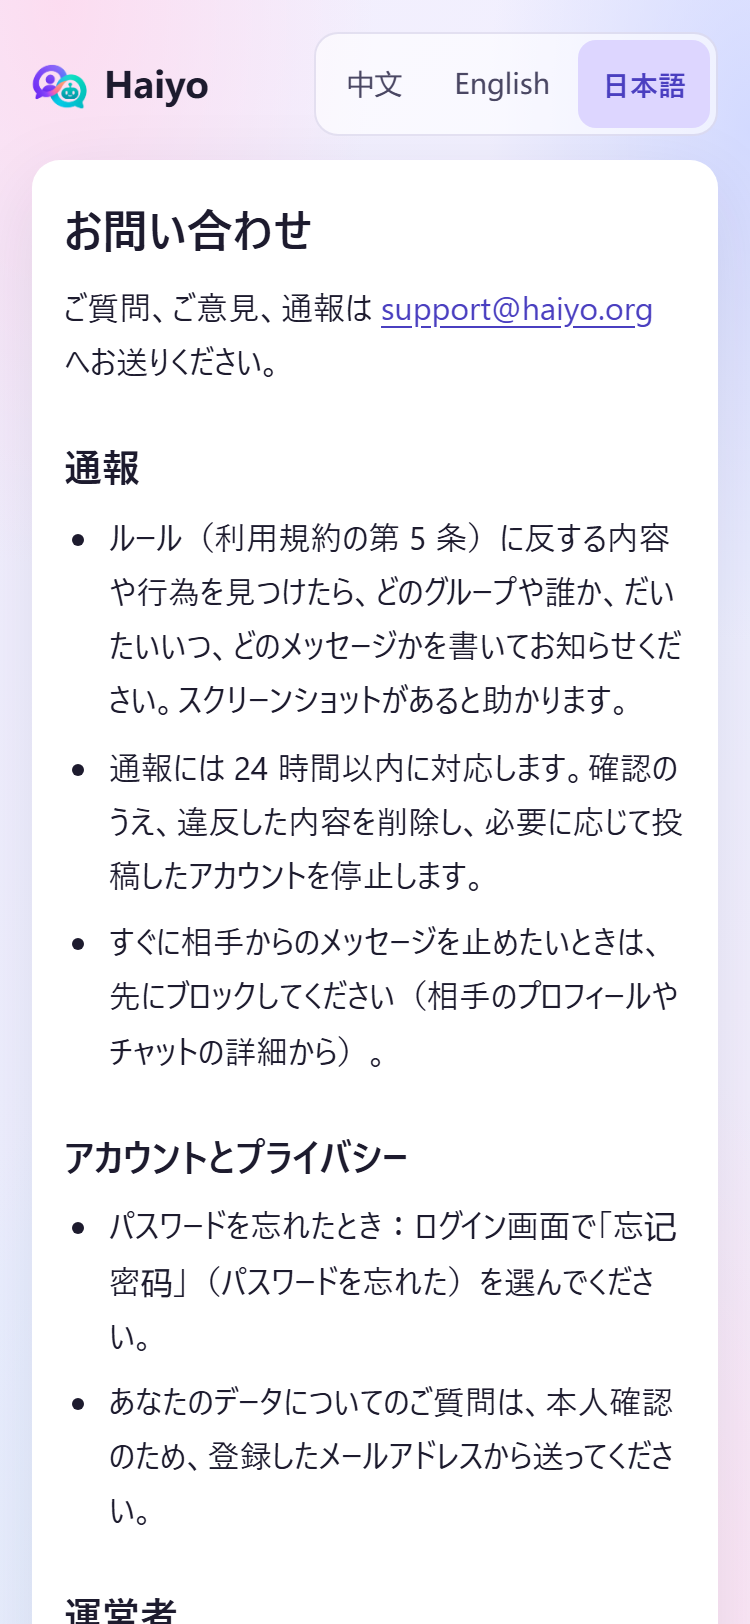
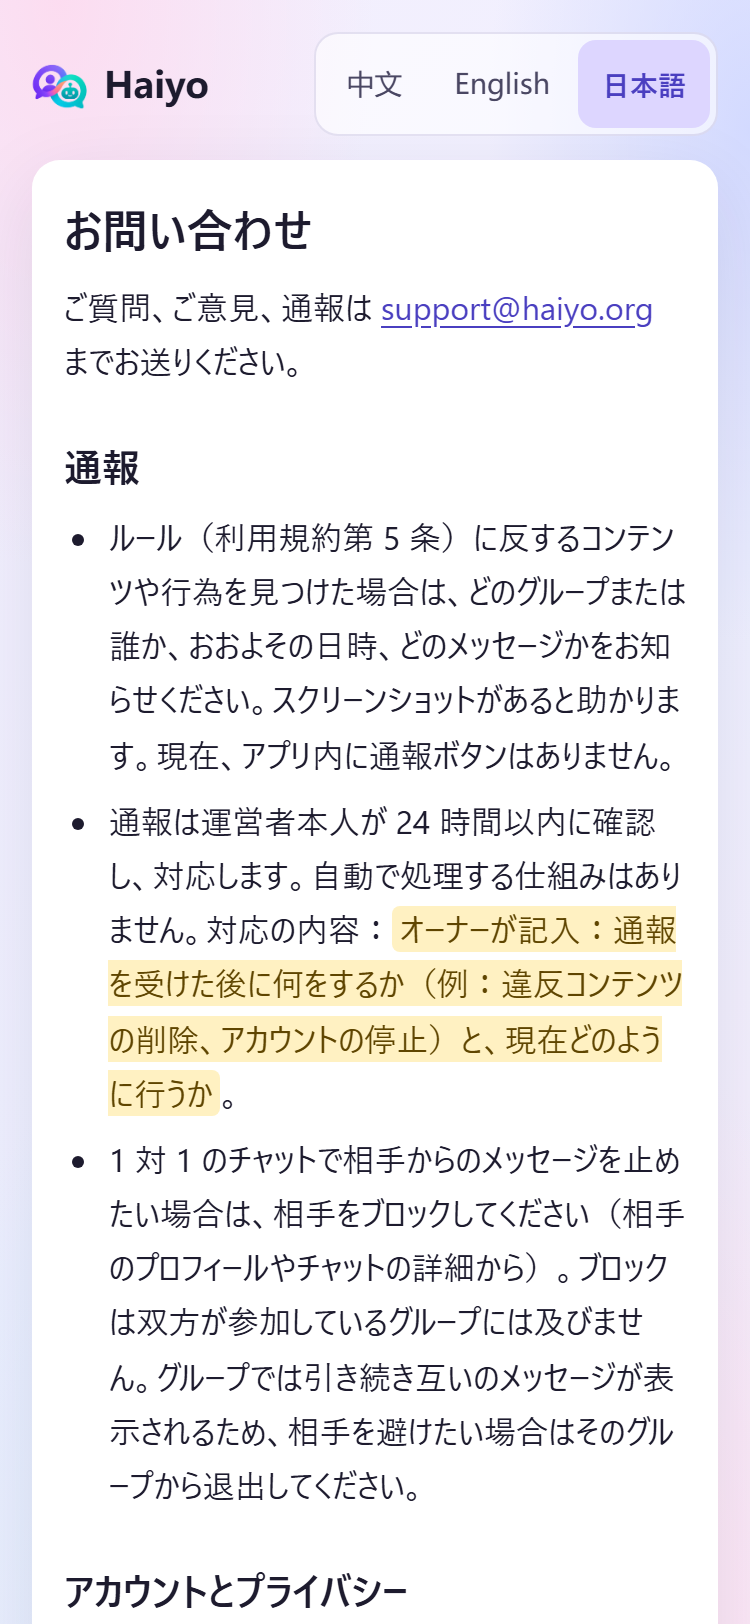
legal test waits for the page title; screenshots retaken with the revised texts

diff --git a/app/web/tests/legal.test.jsx b/app/web/tests/legal.test.jsx
@@ -6,7 +6,7 @@ import React from "react";
 import { readFileSync, readdirSync } from "node:fs";
 import path from "node:path";
 import { afterEach, beforeAll, beforeEach, describe, expect, it, vi } from "vitest";
-import { act, cleanup, configure, fireEvent, render, screen, within } from "@testing-library/react";
+import { act, cleanup, configure, fireEvent, render, screen, waitFor, within } from "@testing-library/react";
 import { ApiError } from "../src/api/http.js";
 import { AuthRoot } from "../src/auth/AuthRoot.jsx";
 import { LEGAL_VERSIONS } from "../src/legal/versions.js";
@@ -151,7 +151,7 @@ describe("the public pages", () => {
     expect(screen.getAllByRole("heading", { level: 1 })).toHaveLength(1);
     expect(screen.queryByTestId("app")).toBeNull();
     expect(location.pathname).toBe(`/${doc}`);
-    expect(document.title).toBe(`${TITLES[doc].zh} · Haiyo`);
+    await waitFor(() => expect(document.title).toBe(`${TITLES[doc].zh} · Haiyo`));
   });
 
   it("opens when the service cannot be reached, and for a signed-out visitor stays where it is", async () => {
